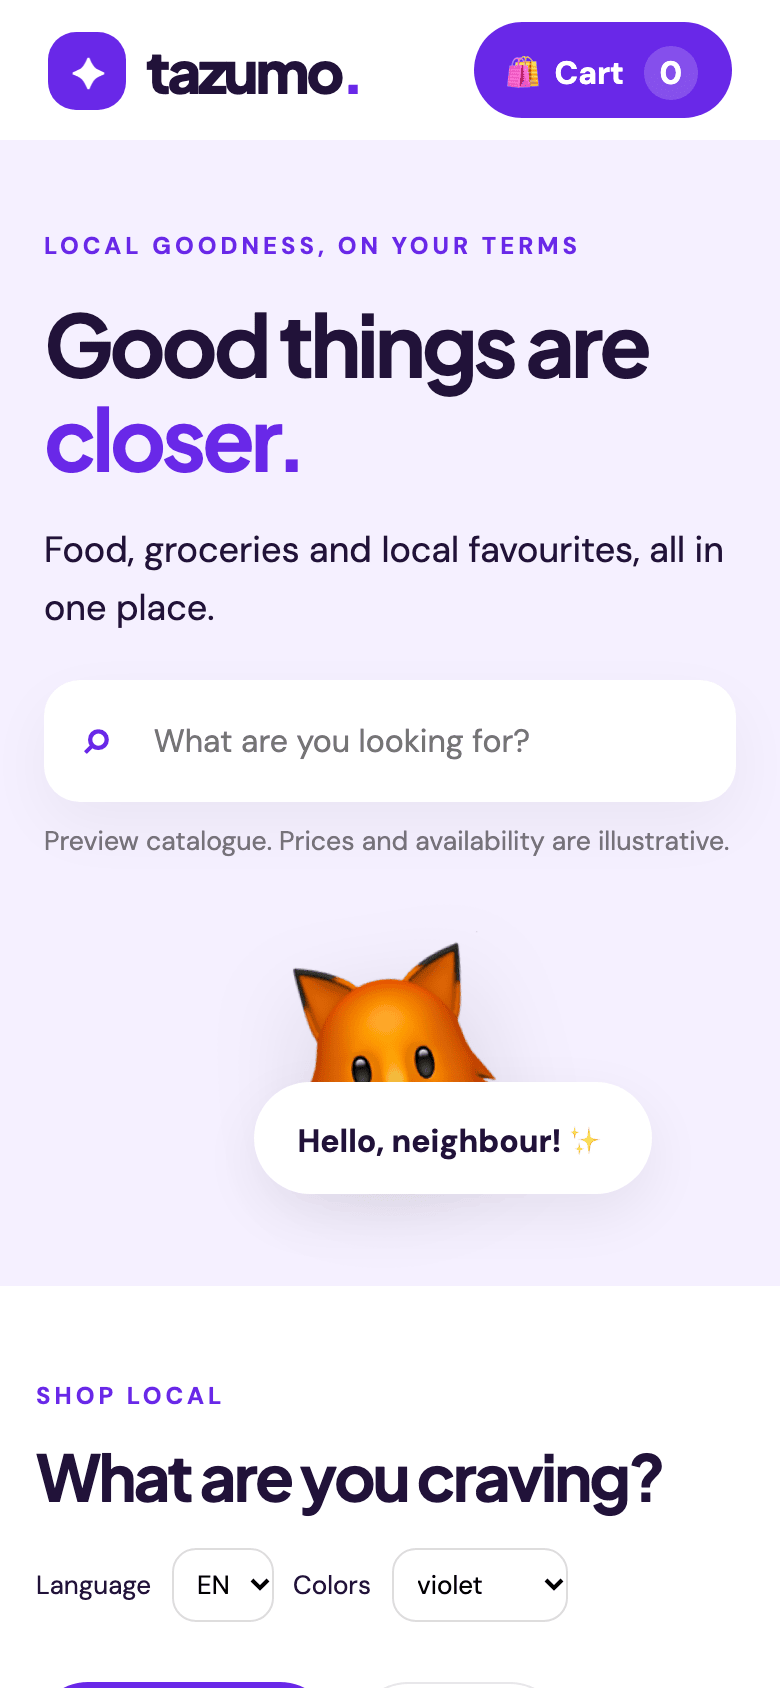
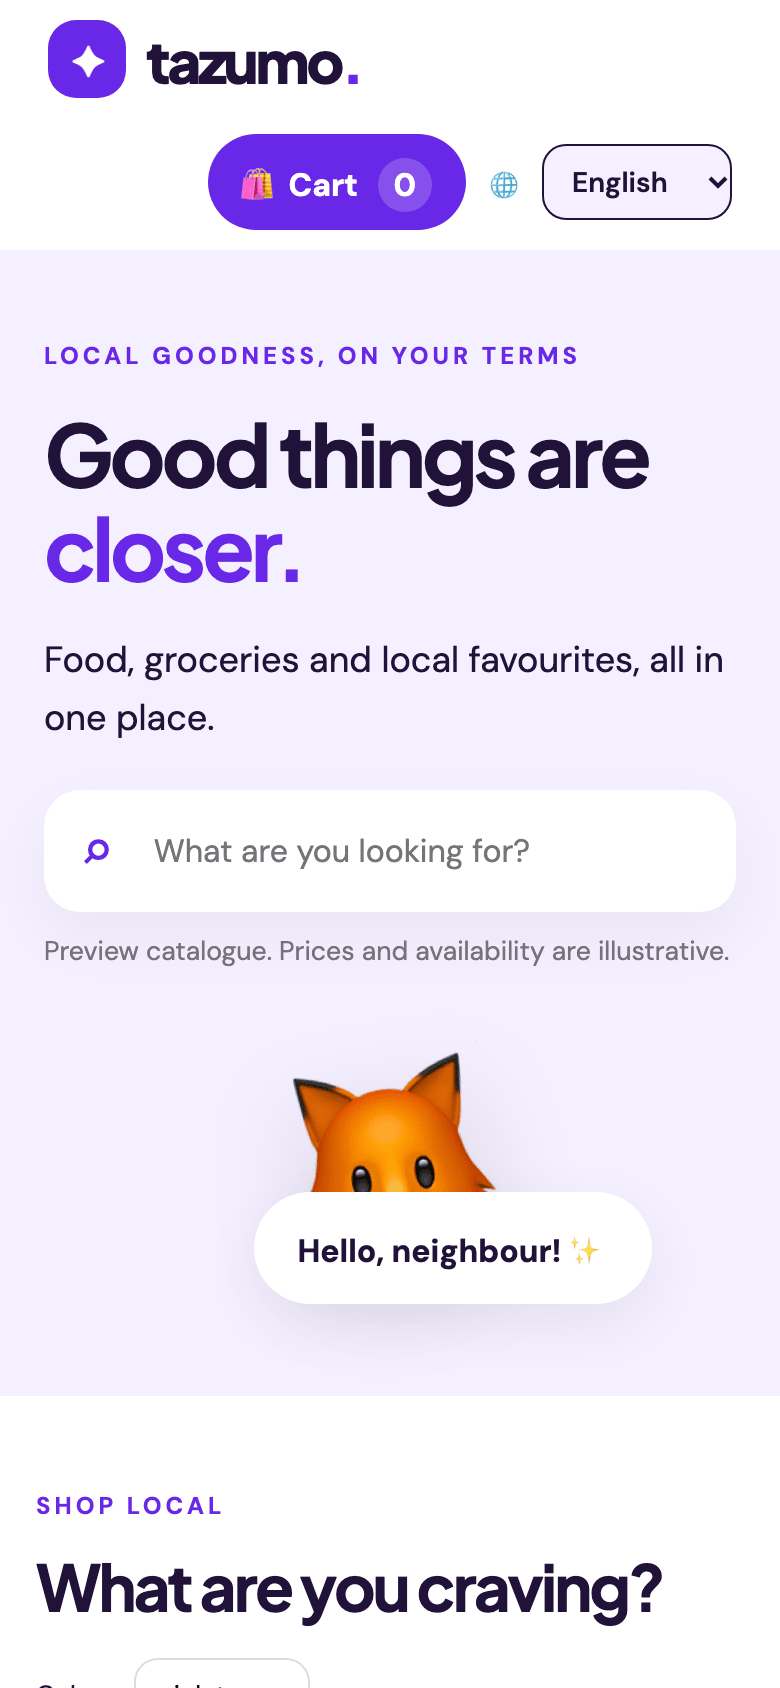
docs(screenshots): refresh web gallery on main with merchant and product detail
Refs #37

diff --git a/README.md b/README.md
@@ -39,21 +39,23 @@ SUT reference imagery captured from the real app. These are not Wopee or Appium 
 
 | | Desktop 1440x900 | Mobile 390x844 |
 | --- | --- | --- |
-| Catalogue | <img src="docs/screenshots/web/desktop-home.png" width="420" alt="Web catalogue on desktop: hero, category chips and all eight products"> | <img src="docs/screenshots/web/mobile-home.png" width="200" alt="Web catalogue on mobile: header, hero and search"> |
+| Catalogue | <img src="docs/screenshots/web/desktop-home.png" width="420" alt="Web catalogue on desktop: header with language switcher, hero, category chips, all eight products and the merchant list"> | <img src="docs/screenshots/web/mobile-home.png" width="200" alt="Web catalogue on mobile: header, hero and search"> |
 | Category: Groceries | <img src="docs/screenshots/web/desktop-category-groceries.png" width="420" alt="Groceries category selected, showing Sourdough loaf and Local apples"> | <img src="docs/screenshots/web/mobile-category-groceries.png" width="200" alt="Groceries category selected on mobile"> |
 | Search: "fresh" | <img src="docs/screenshots/web/desktop-search-fresh.png" width="420" alt="Search for fresh returns three products"> | <img src="docs/screenshots/web/mobile-search-fresh.png" width="200" alt="Search for fresh on mobile"> |
-| Cart with items | <img src="docs/screenshots/web/desktop-cart.png" width="420" alt="Basket dialog with two pizzas, a loaf and flowers, subtotal 46.20 euro, checkout disabled"> | <img src="docs/screenshots/web/mobile-cart.png" width="200" alt="Basket dialog on mobile"> |
+| Cart with items | <img src="docs/screenshots/web/desktop-cart.png" width="420" alt="Basket dialog with two pizzas, a loaf and flowers, line totals, subtotal 46.20 euro, checkout disabled"> | <img src="docs/screenshots/web/mobile-cart.png" width="200" alt="Basket dialog on mobile"> |
+| Merchant detail | <img src="docs/screenshots/web/desktop-merchant-detail.png" width="420" alt="Piazza Local merchant page with breadcrumb, description and its Margherita pizza"> | <img src="docs/screenshots/web/mobile-merchant-detail.png" width="200" alt="Piazza Local merchant page on mobile"> |
+| Product detail | <img src="docs/screenshots/web/desktop-product-detail.png" width="420" alt="Margherita pizza product page: sold by Piazza Local, 11.90 euro, Add button"> | <img src="docs/screenshots/web/mobile-product-detail.png" width="200" alt="Margherita pizza product page on mobile"> |
 
 | Provenance | Web |
 | --- | --- |
-| SUT commit | [`3354ab6`](https://github.com/wopee-io-demos/tazumo/commit/3354ab63930c56ff8fb138e55c1682c54029a04c), the last change to `apps/web`, `packages` and workspace config, unchanged at `main` [`b1cd347`](https://github.com/wopee-io-demos/tazumo/commit/b1cd347bcc5bf6d96e35b36a4eb1b2807a46dce4) |
-| Fixture data | Synthetic catalogue in `packages/core/src/index.ts`; cart = 2x Margherita pizza, 1x Sourdough loaf, 1x Fresh flowers |
+| SUT commit | [`f9616f7`](https://github.com/wopee-io-demos/tazumo/commit/f9616f7a981b015e2d3a4d8061e3c8d9e456cd9c), the last change to `apps/web`, `packages` and workspace config at capture time |
+| Fixture data | Synthetic catalogue and merchants in `packages/core`; cart = 2x Margherita pizza, 1x Sourdough loaf, 1x Fresh flowers; detail pages for `piazza-local` and `pizza` |
 | Capture command | `bash scripts/capture-web-screenshots.sh` after `pnpm install` and `pnpm exec playwright install chromium`; needs `pngquant` and network access for Google Fonts. It runs `pnpm build`, serves `vite preview`, runs `tests/screenshots/capture.spec.ts` and replaces the gallery only when every capture passes |
 | Browser | Playwright 1.65.1, Chromium 159.0.8154.6, macOS arm64 host |
 | Viewports | Desktop 1440x900 @1x; mobile 390x844 @2x with touch |
 | Determinism | App language EN, locale en-IE, timezone Europe/Prague, light scheme, reduced motion, fixed clock, animations and caret disabled; a capture fails on page or console errors or missing web fonts; repeat runs are byte-identical on the same host |
 | Optimiser | pngquant 3.0.3 |
-| Captured | 2026-11-20 ([`provenance.json`](docs/screenshots/web/provenance.json)) |
+| Captured | 2026-11-21 ([`provenance.json`](docs/screenshots/web/provenance.json)) |
 
 ### iOS and Android
 
